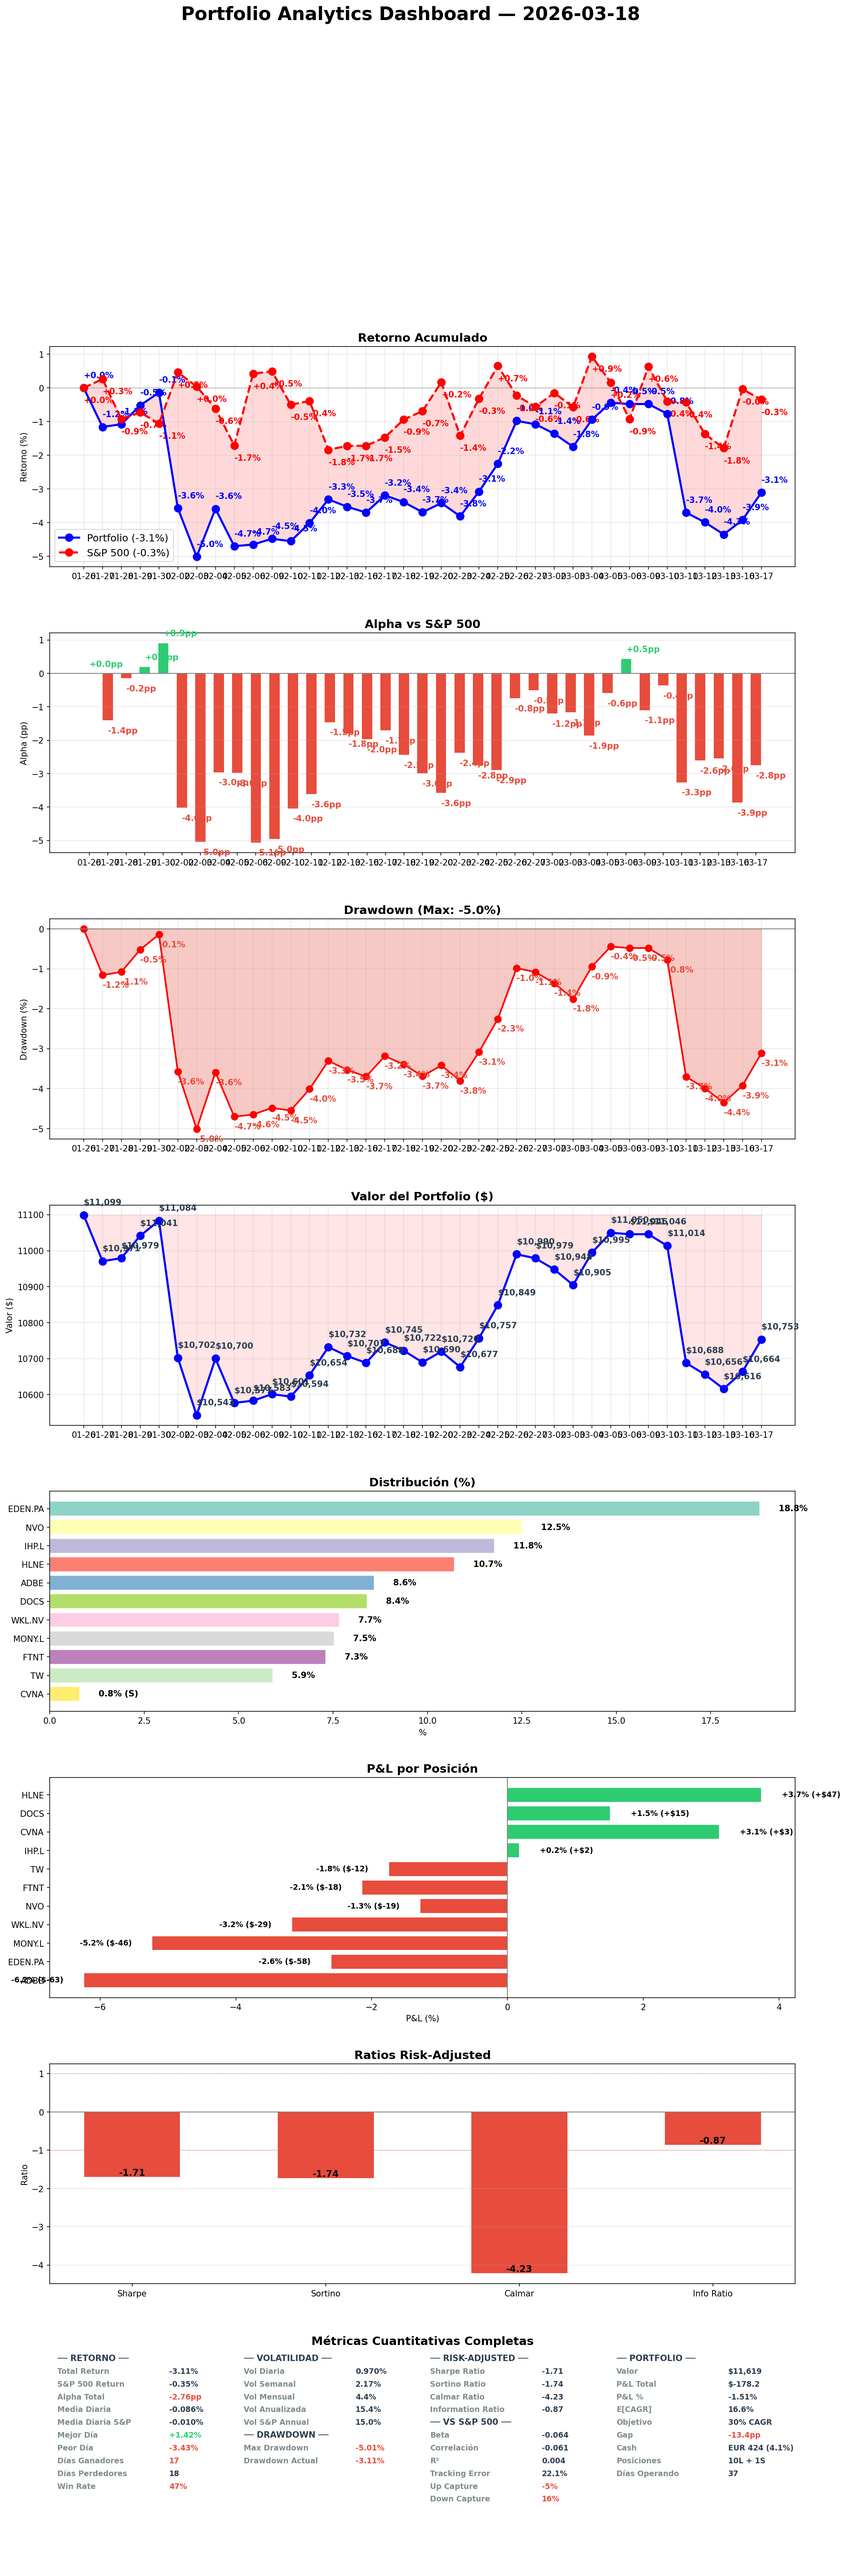
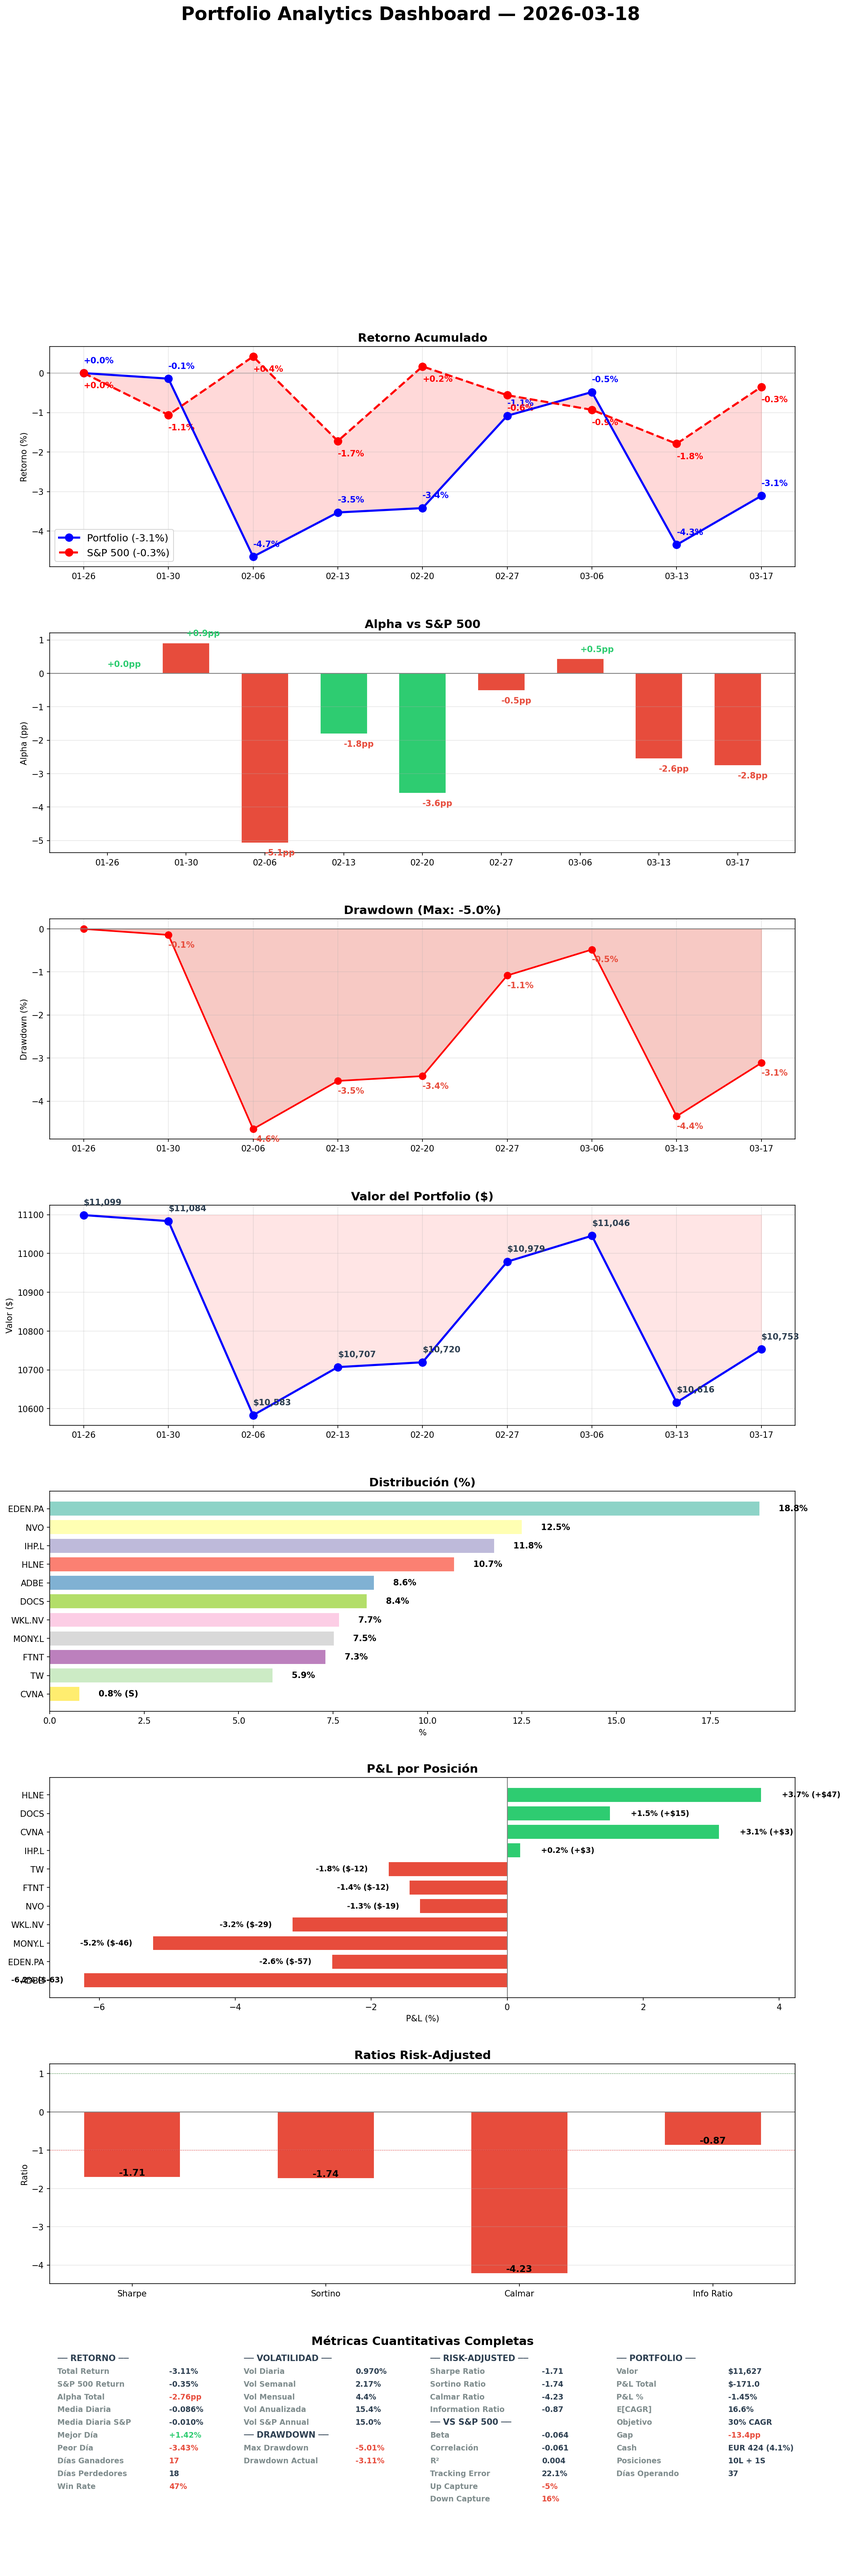
fix: weekly chart intervals for cleaner visualization

diff --git a/state/generate_analytics.py b/state/generate_analytics.py
@@ -68,6 +68,21 @@ def read_tracker():
     return dates, np.array(port_vals), np.array(port_pcts), np.array(sp_vals), np.array(sp_pcts)
 
 
+def resample_weekly(dates, *arrays):
+    """Resample daily data to weekly (every 5 trading days + first + last)."""
+    n = len(dates)
+    if n <= 10:
+        return dates, arrays  # too few, return as-is
+    indices = [0]
+    for i in range(4, n - 1, 5):
+        indices.append(i)
+    if n - 1 not in indices:
+        indices.append(n - 1)
+    w_dates = [dates[i] for i in indices]
+    w_arrays = tuple(arr[indices] for arr in arrays)
+    return w_dates, w_arrays
+
+
 def safe(val, fmt=".2f", suffix="", prefix="", na="N/A"):
     if val is None or (isinstance(val, float) and (np.isnan(val) or np.isinf(val))):
         return na
@@ -197,7 +212,16 @@ def generate_dashboard(positions_data, dates, port_vals, port_pcts, sp_vals, sp_
     total_invested = sum(d["amount"] for d in positions_data.values())
     total_pnl = sum(d["pnl"] for d in positions_data.values())
     portfolio_value = total_invested + total_pnl
-    short_dates = [d[5:] for d in dates]
+
+    # Resample to weekly for cleaner charts (metrics use daily data)
+    w_dates, (w_port_pcts, w_sp_pcts, w_port_vals, w_drawdown, w_alpha) = resample_weekly(
+        dates, port_pcts, sp_pcts, port_vals, drawdown, alpha_series)
+    short_dates = [d[5:] for d in w_dates]
+    port_pcts_chart = w_port_pcts
+    sp_pcts_chart = w_sp_pcts
+    port_vals_chart = w_port_vals
+    drawdown_chart = w_drawdown
+    alpha_chart = w_alpha
 
     fig = plt.figure(figsize=(16, 48))
     fig.suptitle(f'Portfolio Analytics Dashboard — {TODAY}', fontsize=22, fontweight='bold', y=0.998)
@@ -205,12 +229,12 @@ def generate_dashboard(positions_data, dates, port_vals, port_pcts, sp_vals, sp_
 
     # ── 1. Cumulative Returns ──
     ax1 = fig.add_subplot(gs[0])
-    ax1.plot(short_dates, port_pcts, 'b-o', lw=2.5, ms=9, label=f'Portfolio ({port_pcts[-1]:+.1f}%)', zorder=5)
-    ax1.plot(short_dates, sp_pcts, 'r--o', lw=2.5, ms=9, label=f'S&P 500 ({sp_pcts[-1]:+.1f}%)', zorder=5)
+    ax1.plot(short_dates, port_pcts_chart, 'b-o', lw=2.5, ms=9, label=f'Portfolio ({port_pcts_chart[-1]:+.1f}%)', zorder=5)
+    ax1.plot(short_dates, sp_pcts_chart, 'r--o', lw=2.5, ms=9, label=f'S&P 500 ({sp_pcts_chart[-1]:+.1f}%)', zorder=5)
     ax1.axhline(y=0, color='gray', alpha=0.3)
-    ax1.fill_between(range(len(short_dates)), port_pcts, sp_pcts, alpha=0.15,
+    ax1.fill_between(range(len(short_dates)), port_pcts_chart, sp_pcts_chart, alpha=0.15,
                      color='red' if port_pcts[-1] < sp_pcts[-1] else 'green')
-    for i, (p, s) in enumerate(zip(port_pcts, sp_pcts)):
+    for i, (p, s) in enumerate(zip(port_pcts_chart, sp_pcts_chart)):
         ax1.annotate(f'{p:+.1f}%', (i, p), textcoords='offset points', xytext=(0, 12), fontsize=10, color='blue', fontweight='bold')
         ax1.annotate(f'{s:+.1f}%', (i, s), textcoords='offset points', xytext=(0, -18), fontsize=10, color='red', fontweight='bold')
     ax1.set_title('Retorno Acumulado', fontsize=14, fontweight='bold')
@@ -221,9 +245,9 @@ def generate_dashboard(positions_data, dates, port_vals, port_pcts, sp_vals, sp_
     # ── 2. Alpha ──
     ax2 = fig.add_subplot(gs[1])
     colors_a = ['#2ecc71' if a >= 0 else '#e74c3c' for a in alpha_series]
-    ax2.bar(short_dates, alpha_series, color=colors_a, edgecolor='white', width=0.6)
+    ax2.bar(short_dates, alpha_chart, color=colors_a, edgecolor='white', width=0.6)
     ax2.axhline(y=0, color='gray', lw=1)
-    for i, a in enumerate(alpha_series):
+    for i, a in enumerate(alpha_chart):
         ax2.annotate(f'{a:+.1f}pp', (i, a), textcoords='offset points',
                      xytext=(0, 8 if a >= 0 else -15), fontsize=10, fontweight='bold',
                      color='#2ecc71' if a >= 0 else '#e74c3c')
@@ -233,10 +257,10 @@ def generate_dashboard(positions_data, dates, port_vals, port_pcts, sp_vals, sp_
 
     # ── 3. Drawdown ──
     ax3 = fig.add_subplot(gs[2])
-    ax3.fill_between(short_dates, drawdown, 0, color='#e74c3c', alpha=0.3)
-    ax3.plot(short_dates, drawdown, 'r-o', lw=2, ms=8)
+    ax3.fill_between(short_dates, drawdown_chart, 0, color='#e74c3c', alpha=0.3)
+    ax3.plot(short_dates, drawdown_chart, 'r-o', lw=2, ms=8)
     ax3.axhline(y=0, color='gray', lw=1)
-    for i, dd in enumerate(drawdown):
+    for i, dd in enumerate(drawdown_chart):
         if dd < 0:
             ax3.annotate(f'{dd:.1f}%', (i, dd), textcoords='offset points', xytext=(0, -15),
                          fontsize=10, color='#e74c3c', fontweight='bold')
@@ -246,10 +270,10 @@ def generate_dashboard(positions_data, dates, port_vals, port_pcts, sp_vals, sp_
 
     # ── 4. Portfolio Value ──
     ax4 = fig.add_subplot(gs[3])
-    ax4.plot(short_dates, port_vals, 'b-o', lw=2.5, ms=9)
-    ax4.fill_between(short_dates, port_vals, port_vals[0], alpha=0.1,
-                     color='green' if port_vals[-1] >= port_vals[0] else 'red')
-    for i, v in enumerate(port_vals):
+    ax4.plot(short_dates, port_vals_chart, 'b-o', lw=2.5, ms=9)
+    ax4.fill_between(short_dates, port_vals_chart, port_vals_chart[0], alpha=0.1,
+                     color='green' if port_vals_chart[-1] >= port_vals_chart[0] else 'red')
+    for i, v in enumerate(port_vals_chart):
         ax4.annotate(f'${v:,.0f}', (i, v), textcoords='offset points', xytext=(0, 12),
                      fontsize=10, fontweight='bold', color='#2c3e50')
     ax4.set_title('Valor del Portfolio ($)', fontsize=14, fontweight='bold')
